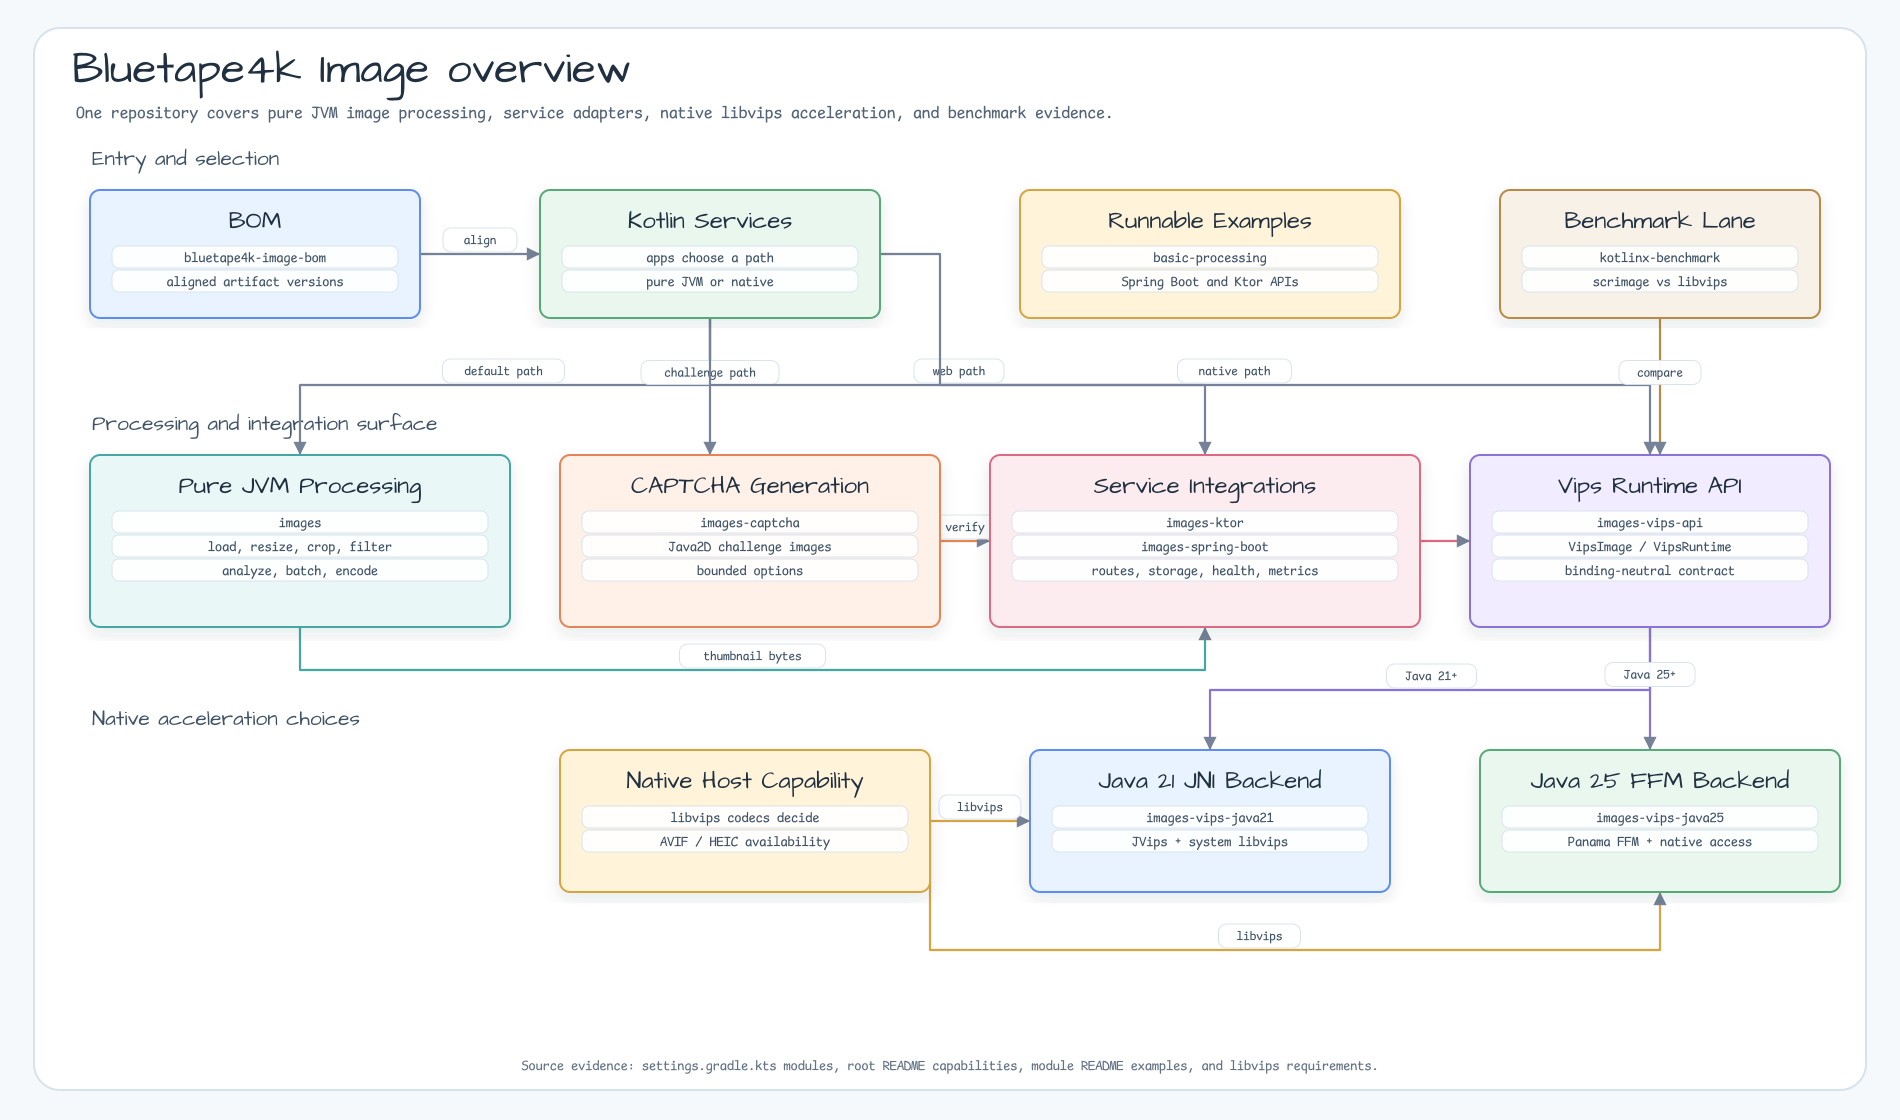
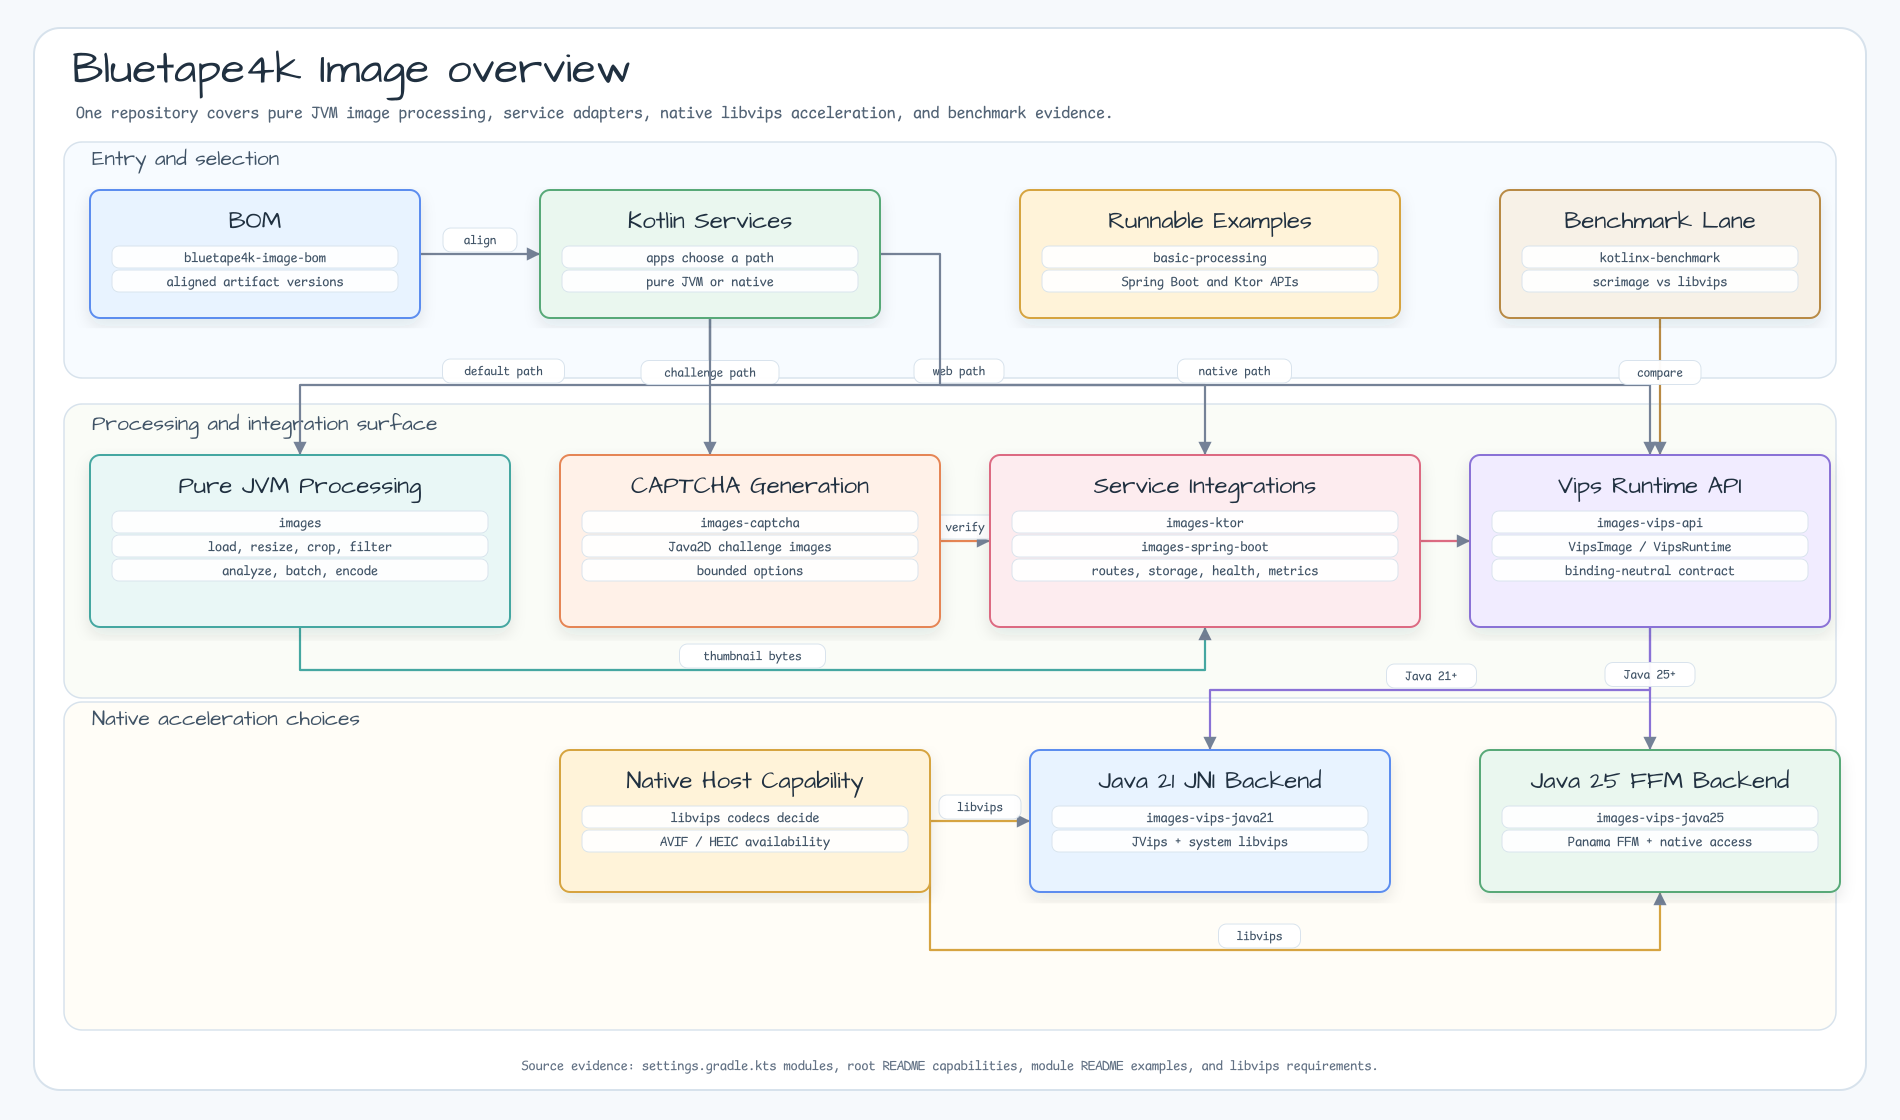
docs: add layered root overview bands
Constraint: Root overview should visually separate entry, processing, and native acceleration layers.

Rejected: Keep section labels as plain text only | It still read like a flow chart without explicit layers.

Confidence: high

Scope-risk: narrow

Directive: Use subtle layer bands for root overview diagrams when the repository has distinct adoption strata.

Tested: python3 docs/scripts/generate-root-readme-overview.py; python3 -m py_compile docs/scripts/generate-root-readme-overview.py; xmllint --noout overview SVGs; README image link checks; rendered PNG inspection; git diff --check

Not-tested: Full Gradle build; docs-only image asset change

diff --git a/docs/scripts/generate-root-readme-overview.py b/docs/scripts/generate-root-readme-overview.py
@@ -135,6 +135,7 @@ def render_header() -> list[str]:
         "  <style>",
         "    .canvas{fill:#F6F9FC}",
         "    .frame{fill:#FFFFFF;stroke:#D7E2EC;stroke-width:2}",
+        "    .layer{stroke:#D7E2EC;stroke-width:1.5}",
         '    .title{font-family:"Architects Daughter";font-size:44px;fill:#203040;font-weight:400}',
         '    .subtitle{font-family:"Comic Mono";font-size:16px;fill:#536476;font-weight:400}',
         '    .section{font-family:"Architects Daughter";font-size:21px;fill:#405366;font-weight:400}',
@@ -150,6 +151,9 @@ def render_header() -> list[str]:
         f'<rect class="frame" x="34" y="28" width="{WIDTH - 68}" height="{HEIGHT - 58}" rx="26"/>',
         '<text class="title" x="72" y="82">Bluetape4k Image overview</text>',
         '<text class="subtitle" x="76" y="118">One repository covers pure JVM image processing, service adapters, native libvips acceleration, and benchmark evidence.</text>',
+        '<rect class="layer" x="64" y="142" width="1772" height="236" rx="18" fill="#F7FBFF"/>',
+        '<rect class="layer" x="64" y="404" width="1772" height="294" rx="18" fill="#FAFCF7"/>',
+        '<rect class="layer" x="64" y="702" width="1772" height="328" rx="18" fill="#FFFDF7"/>',
         '<text class="section" x="92" y="165">Entry and selection</text>',
         '<text class="section" x="92" y="430">Processing and integration surface</text>',
         '<text class="section" x="92" y="725">Native acceleration choices</text>',
